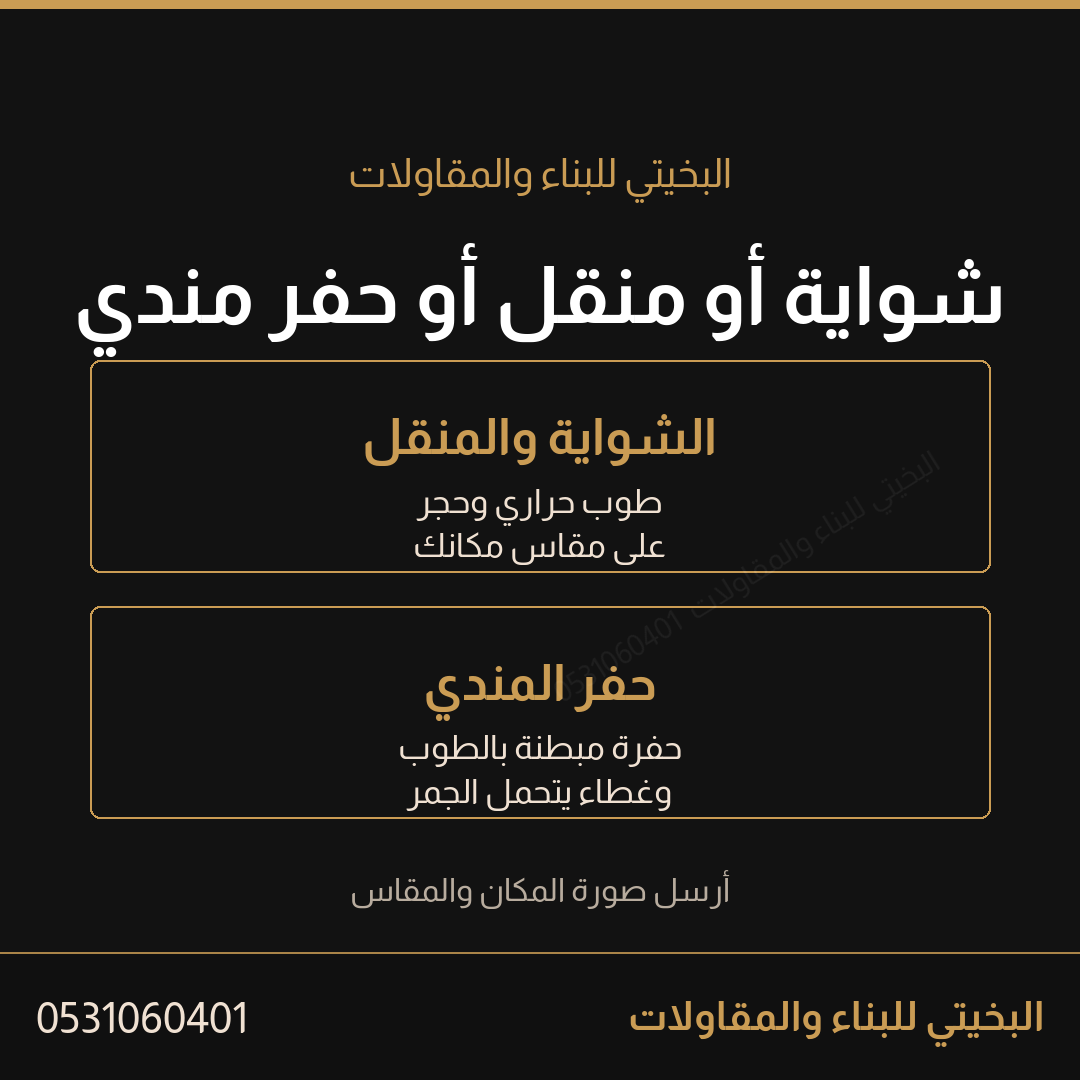
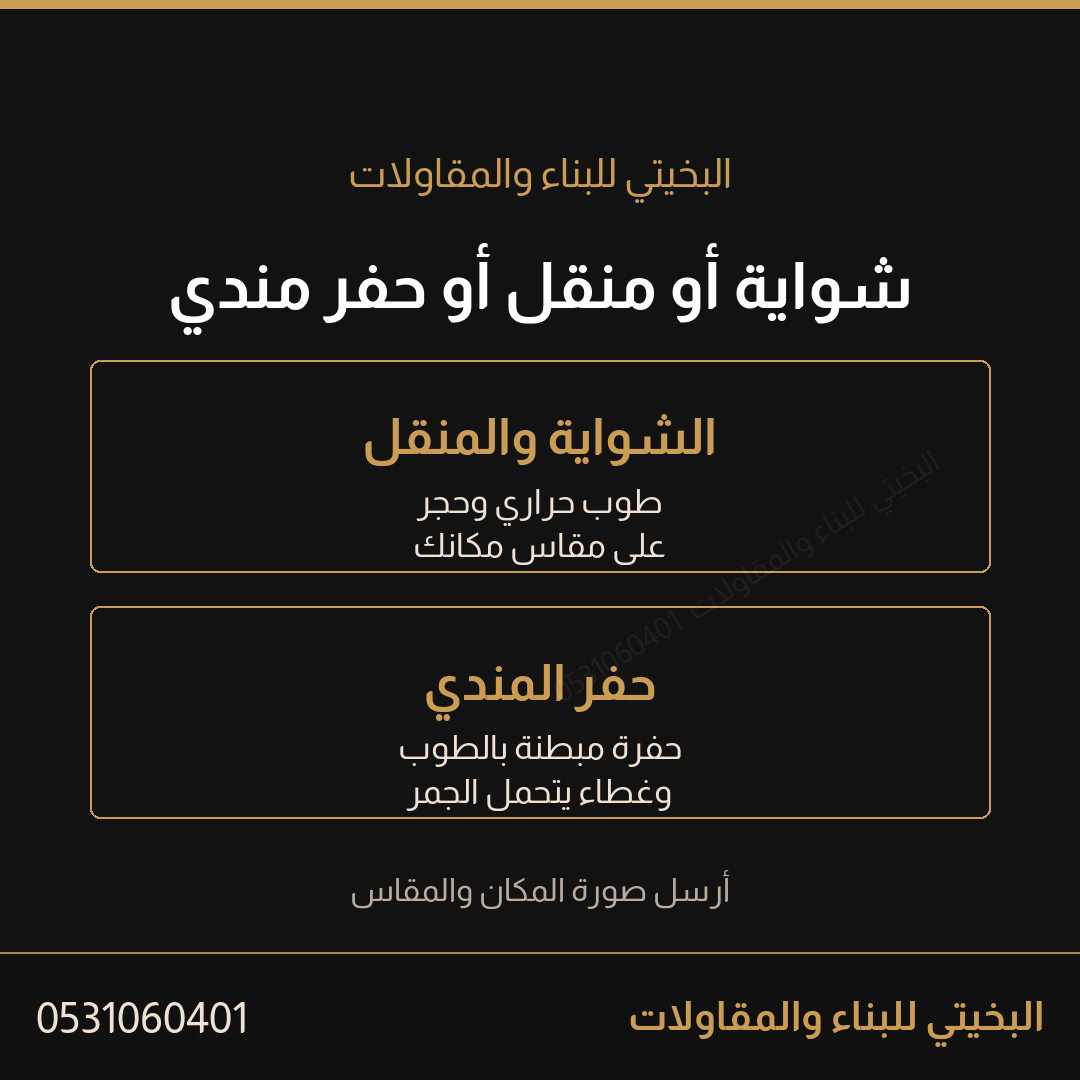
تصحيح بطاقة الشويات وقائمة تصوير الشغل المنجز

Changed region(s): [[0.0611, 0.2139, 0.9472, 0.3361]]

diff --git a/أدوات/وسم-الصور.py b/أدوات/وسم-الصور.py
@@ -150,7 +150,7 @@ def compose(
     print(f"  {out.relative_to(ROOT)}")
 
 
-def card(out: Path, title: str, rows: list[tuple[str, str]], footer: str = "") -> None:
+def card(out: Path, title: str, rows: list[tuple[str, str]], footer: str = "", title_size: int = 82) -> None:
     """بطاقة نصية بخلفية داكنة، بلا أرقام أسعار."""
     W, H = 1080, 1080
     img = Image.new("RGBA", (W, H), (18, 18, 18, 255))
@@ -159,7 +159,7 @@ def card(out: Path, title: str, rows: list[tuple[str, str]], footer: str = "") -
     d.rectangle([(0, H - 8), (W, H)], fill=GOLD)
 
     d.text((W // 2, 150), ar(NAME), font=font("Regular", 40), fill=GOLD, anchor="ma")
-    d.text((W // 2, 250), ar(title), font=fit(title, "Bold", 82, W - 140), fill=WHITE, anchor="ma")
+    d.text((W // 2, 250), ar(title), font=fit(title, "Bold", title_size, W - 140), fill=WHITE, anchor="ma")
 
     y = 360
     for head, body in rows:

diff --git a/إعلانات/شغل-منجز/إعلان-شغل-منجز.md b/إعلانات/شغل-منجز/إعلان-شغل-منجز.md
@@ -2,8 +2,9 @@
 title: "إعلان الشغل المنجز"
 aliases:
   - "شغل منجز"
+  - "أعمال منجزة"
 kind: "ad"
-status: "معتمد"
+status: "بانتظار الصور"
 priority: "P2"
 channel: "haraj"
 service: "منجز"
@@ -14,18 +15,43 @@ tags:
   - "منجز"
 phone: "0531060401"
 created: "2026-10-04"
-updated: "2026-10-04"
+updated: "2026-10-18"
 ---
 
 # إعلان الشغل المنجز
 
-لا يُنشر حتى توجد صورة حقيقية من المكان. لا تضع هنا صورة مولّدة وتكتب عليها اسم حي.
+هذا الإعلان هو الإثبات. لا يُنشر بلا صورة حقيقية من مكان حقيقي. لا تُستخدم فيه صورة مولّدة أبداً، ولا صورة من إعلان آخر.
+
+## ما ينقصه فقط
+
+خمس صور من جوال صاحب الحساب. لا يحتاج مصوراً ولا معدات.
+
+## قائمة التصوير
+
+| # | اللقطة | كيف |
+|---|---|---|
+| 1 | سور أو جدار منجز من زاوية واسعة | قف على الطرف وخذ الجدار كاملاً في الإطار |
+| 2 | تفصيلة فاصل أو زاوية | اقترب نصف متر حتى تبان الفواصل والقطع |
+| 3 | مدخل أو بوابة منجزة | من الشارع، بلا لوحة سيارة ولا رقم بيت |
+| 4 | قبل وبعد لنفس المكان إن توفرت صورة قديمة | الصورتان من نفس الزاوية |
+| 5 | لقطة أفقية للجدار مع السماء | تُستخدم للغلاف إن كانت أنظف من الأولى |
+
+## شروط الصورة
+
+- بلا أشخاص.
+- بلا رقم بيت ولا اسم حي ولا لوحة سيارة.
+- بلا فلتر وبلا كتابة فوق الصورة الأصلية.
+- ضوء نهار أو شمس عصر، لا تصوير بالليل.
+- لا تُصور مكاناً ليس من شغلك.
+- إن ظهر بيت أحد، اطلب إذنه قبل النشر.
 
 ## العنوان
 
 ```
 شغل منجز في الرياض حجر وبلك وأسوار البخيتي للمقاولات
 ```
+
+52 حرفاً.
 
 ## الوصف
 
@@ -42,4 +68,40 @@ updated: "2026-10-04"
 الرياض
 ```
 
-ضع الصورة الحقيقية داخل `صور/` في هذا المجلد فقط، ثم ارفعها.
+10 سطور.
+
+## كلمات آخر الإعلان
+
+```
+شغل منجز الرياض، أعمال بلك، أعمال حجر، أسوار منجزة، جدران بلك، مقاول الرياض، البخيتي للبناء والمقاولات
+```
+
+7 كلمات.
+
+## ترتيب الرفع بعد وصول الصور
+
+| الترتيب | اللقطة | لماذا |
+|---|---|---|
+| 1 | اللقطة الأفقية | الغلاف، تُظهر الشغل كاملاً |
+| 2 | التفصيلة | الإتقان |
+| 3 | المدخل أو البوابة | يربط الشغل بالبيت |
+| 4 | قبل وبعد | يشرح الفرق |
+| 5 | صورة إضافية | إن كانت نظيفة |
+
+## الرد داخل حراج
+
+```
+السلام عليكم
+هذا شغل منجز في الرياض
+حجر وبلك وأسوار
+إذا تبي مثلها أرسل صورة مكانك والمقاس
+0531060401
+```
+
+## ما لا يدخل هذا الإعلان
+
+- لا صورة مولّدة.
+- لا صورة من إعلان آخر.
+- لا اسم حي ولا اسم عميل.
+- لا سعر ولا مدة.
+- لا «قبل وبعد» مفبركة من مكانين مختلفين.
